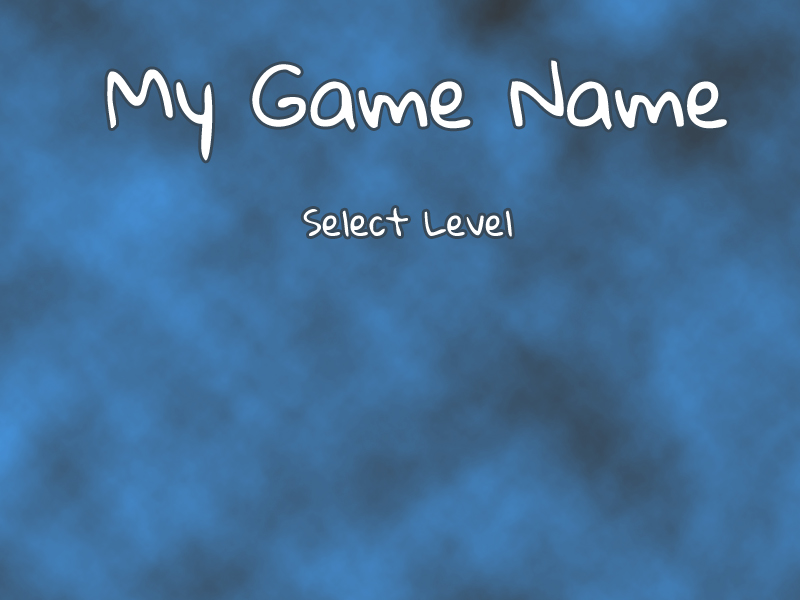
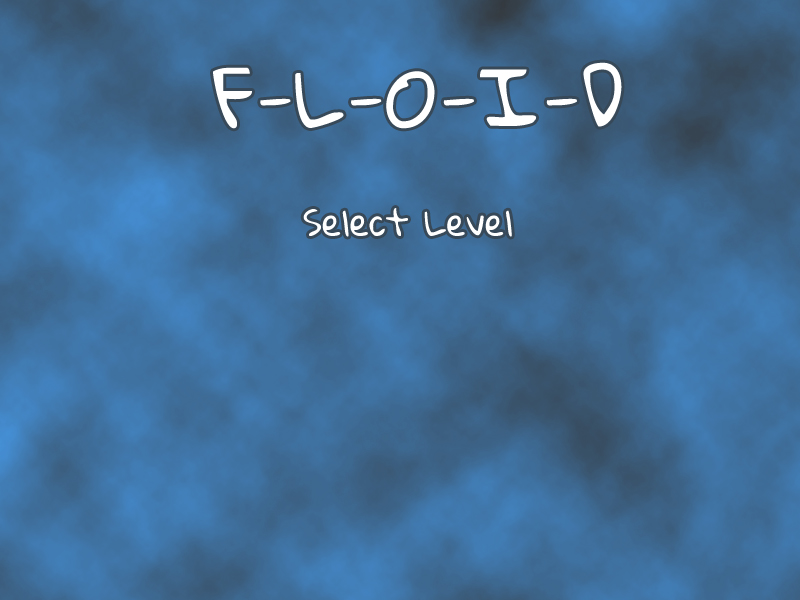
gave the game a name

Changed region(s): [[0.125, 0.09, 0.9062, 0.27]]

diff --git a/index.html b/index.html
@@ -2,12 +2,12 @@
 <html lang="en">
 <head>
     <meta charset="UTF-8">
-    <title>My Game Name - Ludum Dare 34</title>
+    <title>F-L-O-I-D - Ludum Dare 34</title>
     <link rel="stylesheet" href="https://fonts.googleapis.com/css?family=Roboto|Gloria+Hallelujah">
     <link rel="stylesheet" href="//cdnjs.cloudflare.com/ajax/libs/github-fork-ribbon-css/0.1.1/gh-fork-ribbon.min.css" />
 </head>
 <body>
-    <h1>My Game Name - Ludum Dare 34</h1>
+    <h1>F-L-O-I-D - Ludum Dare 34</h1>
     <div class="github-fork-ribbon-wrapper right">
         <div class="github-fork-ribbon">
             <a href="https://github.com/dmecke/ld34">Fork me on GitHub</a>

diff --git a/README.md b/README.md
@@ -1,4 +1,4 @@
-# My Game Name
+# F-L-O-I-D
 
 This is my game for Ludum Dare 34.
 
